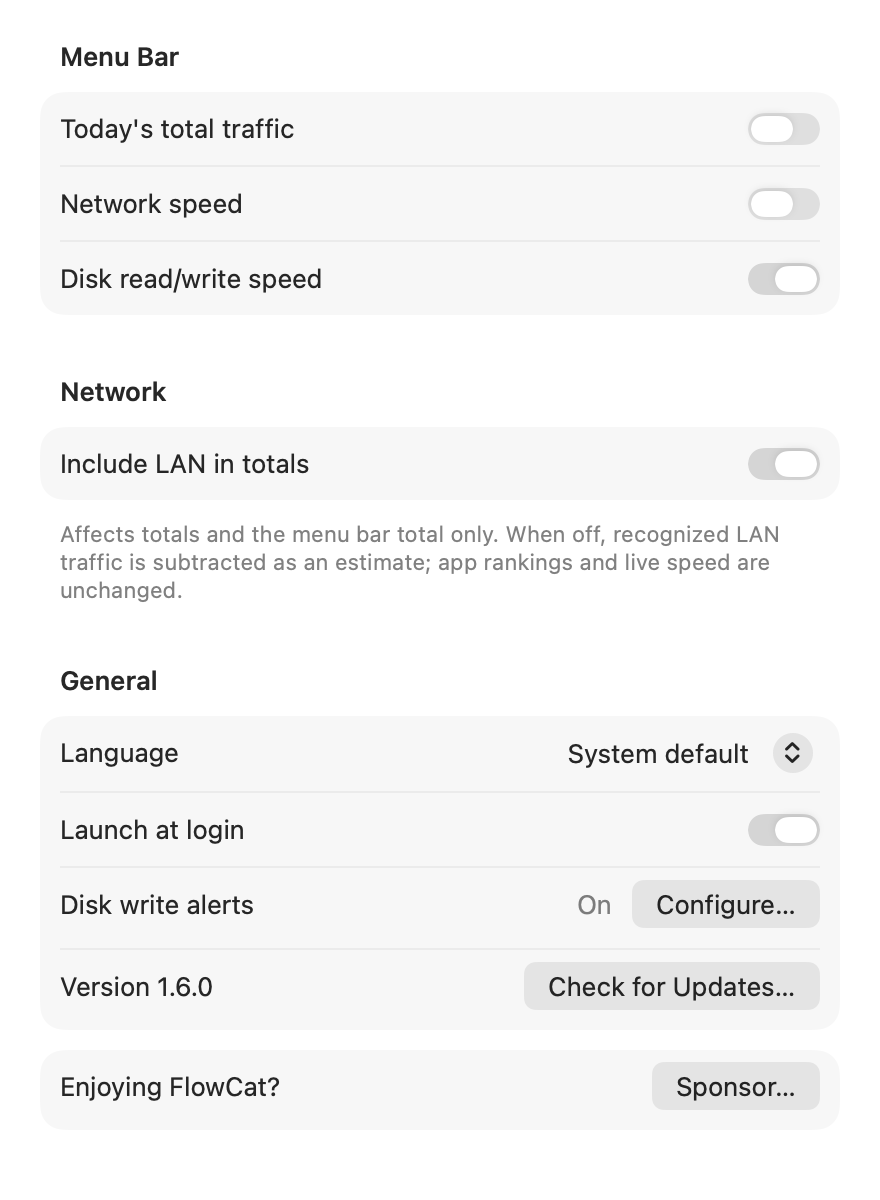
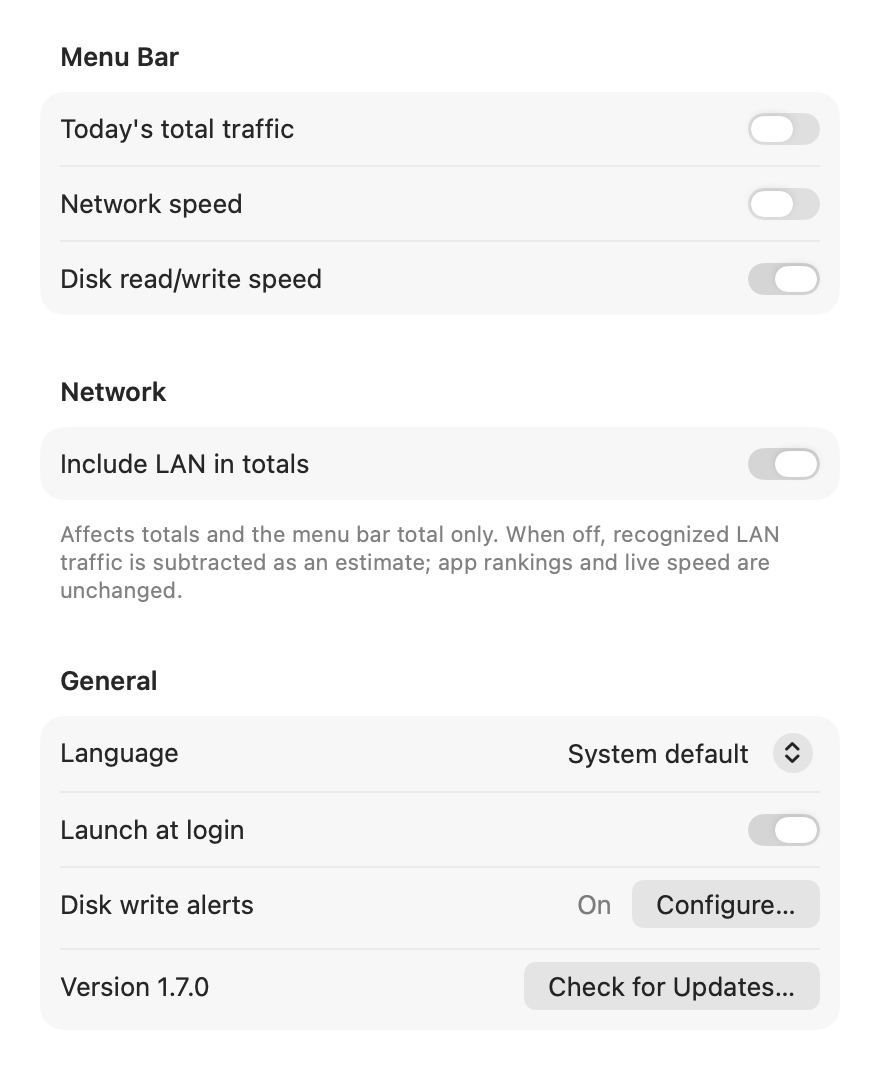
chore: remove sponsor entry from app, site and README

diff --git a/Sources/main.swift b/Sources/main.swift
@@ -119,7 +119,6 @@ final class AppDelegate: NSObject, NSApplicationDelegate, NSMenuDelegate, NSPopo
         _ = add(tr("Disk Write Alerts…", "磁盘写入提醒…"), action: #selector(openDiskAlerts))
         menu.addItem(.separator())
         _ = add(tr("Settings…", "设置…"), action: #selector(openSettings))
-        _ = add(tr("Sponsor FlowCat…", "赞助流量喵…"), action: #selector(openSponsor))
         _ = add(tr("Check for Updates…", "检查更新…"), action: #selector(checkUpdates))
         menu.addItem(.separator())
         _ = add(tr("Quit FlowCat", "退出流量喵"), action: #selector(quit))
@@ -180,7 +179,6 @@ final class AppDelegate: NSObject, NSApplicationDelegate, NSMenuDelegate, NSPopo
     @objc private func toggleMenuBarTotal() { monitor.showMenuBarTotal.toggle() }
     @objc private func toggleMenuBarSpeed() { monitor.showMenuBarSpeed.toggle() }
     @objc private func toggleRecording() { monitor.togglePause() }
-    @objc private func openSponsor() { NSWorkspace.shared.open(Links.sponsor) }
     @objc private func toggleIncludeLAN() { monitor.includeLAN.toggle() }
     @objc private func openSettings() { popover.performClose(nil); SettingsWindow.shared.show(monitor) }
     @objc private func exportNetworkCSV() { NSApp.activate(ignoringOtherApps: true); monitor.export() }
@@ -335,7 +333,7 @@ if let index = CommandLine.arguments.firstIndex(of: "--render-preview"), Command
     if CommandLine.arguments.contains("--dark") { app.appearance = NSAppearance(named: .darkAqua) }
     let alertPreview = CommandLine.arguments.contains("--alerts")
     let settingsPreview = CommandLine.arguments.contains("--settings")
-    let size = settingsPreview ? CGSize(width: 440, height: 490) : alertPreview ? CGSize(width: CommandLine.arguments.contains("--narrow") ? 510 : 620, height: 900) : CGSize(width: CommandLine.arguments.contains("--narrow") ? 342 : 460, height: CommandLine.arguments.contains("--short") ? 452 : 640)
+    let size = settingsPreview ? CGSize(width: 440, height: 540) : alertPreview ? CGSize(width: CommandLine.arguments.contains("--narrow") ? 510 : 620, height: 900) : CGSize(width: CommandLine.arguments.contains("--narrow") ? 342 : 460, height: CommandLine.arguments.contains("--short") ? 452 : 640)
     var alertModel = preview.disk.alerts
     if alertPreview {
         let suite = "flowcat-alert-preview-" + UUID().uuidString

diff --git a/Sources/SettingsWindow.swift b/Sources/SettingsWindow.swift
@@ -8,12 +8,12 @@ final class SettingsWindow: NSObject, NSWindowDelegate {
     func show(_ monitor: TrafficMonitor) {
         monitor.refreshLoginStatus()
         if let window { window.makeKeyAndOrderFront(nil); NSApp.activate(ignoringOtherApps: true); return }
-        let window = NSWindow(contentRect: NSRect(x: 0, y: 0, width: 440, height: 600),
+        let window = NSWindow(contentRect: NSRect(x: 0, y: 0, width: 440, height: 540),
                               styleMask: [.titled, .closable], backing: .buffered, defer: false)
         window.title = tr("FlowCat Settings", "流量喵设置"); window.isReleasedWhenClosed = false; window.delegate = self
         // Assigning a controller resizes the window to its view; restore the fixed form size afterwards.
         window.contentViewController = NSHostingController(rootView: SettingsView(monitor: monitor, disk: monitor.disk, alerts: monitor.disk.alerts))
-        window.setContentSize(NSSize(width: 440, height: 600))
+        window.setContentSize(NSSize(width: 440, height: 540))
         self.window = window; window.center(); window.makeKeyAndOrderFront(nil); NSApp.activate(ignoringOtherApps: true)
     }
     func windowWillClose(_ notification: Notification) { window = nil }
@@ -60,11 +60,6 @@ struct SettingsView: View {
                     Button(tr("Check for Updates…", "检查更新…")) { UpdateChecker.shared.check() }
                 }
             } header: { Text(tr("General", "通用")) }
-            Section {
-                LabeledContent(tr("Enjoying FlowCat?", "喜欢流量喵？")) {
-                    Button(tr("Sponsor…", "赞助…")) { NSWorkspace.shared.open(Links.sponsor) }
-                }
-            }
-        }.formStyle(.grouped).frame(width: 440, height: 600).environment(\.locale, appLocale)
+        }.formStyle(.grouped).frame(width: 440, height: 540).environment(\.locale, appLocale)
     }
 }

diff --git a/docs/site.css b/docs/site.css
@@ -133,9 +133,6 @@ summary::after { content: "+"; color: var(--muted); font-weight: 400; font-size:
 details[open] summary::after { content: "\2212"; }
 details p { color: var(--muted); margin: 12px 0 0; }
 
-/* Sponsor */
-.sponsor .box { background: var(--surface); border: 1px solid var(--line); border-radius: var(--radius); padding: 40px; display: grid; grid-template-columns: minmax(0, 1fr) auto; gap: 32px; align-items: center; }
-.sponsor p { color: var(--muted); margin: 0; }
 
 footer { border-top: 1px solid var(--line); padding: 32px 0 48px; color: var(--muted); font-size: 14px; }
 footer .wrap { display: flex; flex-wrap: wrap; gap: 12px 28px; align-items: center; }
@@ -159,7 +156,6 @@ footer .brand { color: var(--ink); margin-right: auto; }
   .cell.wide, .cell.narrow, .cell.third { grid-column: span 2; }
   .split { grid-template-columns: 1fr; gap: 36px; }
   .install ol { grid-template-columns: 1fr; }
-  .sponsor .box { grid-template-columns: 1fr; padding: 28px; }
   section { padding: 64px 0; }
 }
 @media (max-width: 640px) {

diff --git a/docs/index.html b/docs/index.html
@@ -25,7 +25,6 @@
     <nav class="nav" aria-label="Main">
       <a href="#features">Features</a>
       <a href="#install">Install</a>
-      <a href="#sponsor">Sponsor</a>
       <a href="https://github.com/tab16360/flowcat">GitHub</a>
       <a class="lang" href="zh/" hreflang="zh-Hans" lang="zh-Hans">中文</a>
     </nav>
@@ -156,17 +155,6 @@
     </div>
   </section>
 
-  <section id="sponsor" class="sponsor">
-    <div class="wrap reveal">
-      <div class="box">
-        <div>
-          <h2>Keep FlowCat free.</h2>
-          <p>FlowCat is free, open source and built in spare time. If it helped you catch a runaway process, a sponsorship keeps updates coming.</p>
-        </div>
-        <a class="button" href="https://github.com/sponsors/tab16360">Sponsor on GitHub</a>
-      </div>
-    </div>
-  </section>
 </main>
 
 <footer>

diff --git a/docs/zh/index.html b/docs/zh/index.html
@@ -25,7 +25,6 @@
     <nav class="nav" aria-label="主导航">
       <a href="#features">功能</a>
       <a href="#install">安装</a>
-      <a href="#sponsor">赞助</a>
       <a href="https://github.com/tab16360/flowcat">GitHub</a>
       <a class="lang" href="../" hreflang="en" lang="en">English</a>
     </nav>
@@ -156,17 +155,6 @@
     </div>
   </section>
 
-  <section id="sponsor" class="sponsor">
-    <div class="wrap reveal">
-      <div class="box">
-        <div>
-          <h2>让流量喵保持免费。</h2>
-          <p>流量喵免费、开源，利用业余时间开发。如果它帮你揪出过失控的进程，欢迎赞助支持后续更新。</p>
-        </div>
-        <a class="button" href="https://github.com/sponsors/tab16360">在 GitHub 赞助</a>
-      </div>
-    </div>
-  </section>
 </main>
 
 <footer>

diff --git a/Sources/Core.swift b/Sources/Core.swift
@@ -25,11 +25,6 @@ final class Localization: ObservableObject {
         }
     }
 }
-enum Links {
-    static let repository = URL(string: "https://github.com/tab16360/flowcat")!
-    // One place to change the sponsor destination for the app, site and README.
-    static let sponsor = URL(string: "https://github.com/sponsors/tab16360")!
-}
 // Dates follow the app language rather than the system region.
 var appLocale: Locale { Locale(identifier: Localization.shared.isChinese ? "zh_Hans_CN" : "en_US") }
 func appDate(_ date: Date, date dateStyle: Date.FormatStyle.DateStyle, time: Date.FormatStyle.TimeStyle) -> String {

diff --git a/Sources/LedgerView.swift b/Sources/LedgerView.swift
@@ -141,7 +141,6 @@ struct LedgerView: View {
                 Divider()
                 Button(tr("Settings…", "设置…")) { SettingsWindow.shared.show(monitor); close() }.keyboardShortcut(",")
                 Button(tr("Check for Updates…", "检查更新…")) { UpdateChecker.shared.check() }
-                Button(tr("Sponsor FlowCat…", "赞助流量喵…")) { NSWorkspace.shared.open(Links.sponsor) }
                 Divider()
                 Button(tr("Quit FlowCat", "退出流量喵")) { monitor.save(); NSApp.terminate(nil) }.keyboardShortcut("q")
             } label: {

diff --git a/README.zh-CN.md b/README.zh-CN.md
@@ -6,7 +6,7 @@
 
 **下载包不足 1 MB · 无需账号 · 数据全在本地 · macOS 13+ · Apple Silicon · Apache-2.0**
 
-[下载最新版](https://github.com/tab16360/flowcat/releases/latest/download/FlowCat-arm64.zip) · [介绍站点](https://tab16360.github.io/flowcat/zh/) · [使用说明](docs/guide.zh-CN.md) · [更新记录](CHANGELOG.md) · [赞助](https://github.com/sponsors/tab16360) · [English](README.md)
+[下载最新版](https://github.com/tab16360/flowcat/releases/latest/download/FlowCat-arm64.zip) · [介绍站点](https://tab16360.github.io/flowcat/zh/) · [使用说明](docs/guide.zh-CN.md) · [更新记录](CHANGELOG.md) · [English](README.md)
 
 关注作者 [@ai_funs](https://x.com/ai_funs)，获取流量喵更新与 AI 工具实践。
 
@@ -128,9 +128,5 @@ CI 检查核心统计并生成安装包。`main` 上的站点更新由 GitHub Pa
 Windows 版已迁入独立仓库：[flowcat-windows](https://github.com/tab16360/flowcat-windows)。使用 C++20 / Win32 / Direct2D，后台采集服务与普通权限托盘界面分离，提供独立安装器、Wi-Fi 筛选、设置与更新渠道。
 
 [Windows 介绍与下载](https://tab16360.github.io/flowcat/windows/)。本仓库继续维护 macOS 版。
-
-## 赞助
-
-流量喵免费开源，利用业余时间开发。如果它帮你揪出过失控的进程，欢迎在 [GitHub 赞助](https://github.com/sponsors/tab16360)。
 
 采用 [Apache License 2.0](LICENSE) 许可证。

diff --git a/README.md b/README.md
@@ -6,7 +6,7 @@ A native macOS menu bar app for **live network speed**, **per-process disk reads
 
 **Under 1 MB · No account · Data stays on your Mac · macOS 13+ · Apple Silicon · Apache-2.0**
 
-[Download](https://github.com/tab16360/flowcat/releases/latest/download/FlowCat-arm64.zip) · [Website](https://tab16360.github.io/flowcat/) · [User guide](docs/guide.md) · [Changelog](CHANGELOG.md) · [Sponsor](https://github.com/sponsors/tab16360) · [简体中文](README.zh-CN.md)
+[Download](https://github.com/tab16360/flowcat/releases/latest/download/FlowCat-arm64.zip) · [Website](https://tab16360.github.io/flowcat/) · [User guide](docs/guide.md) · [Changelog](CHANGELOG.md) · [简体中文](README.zh-CN.md)
 
 ![FlowCat in the menu bar with the network and disk activity panels](docs/assets/screens/hero-en.jpg)
 
@@ -93,8 +93,6 @@ CI runs the checks and builds the package. Pushes to `main` that touch `docs/` p
 
 A separate Windows version (C++20 / Win32 / Direct2D) lives in [flowcat-windows](https://github.com/tab16360/flowcat-windows). This repository maintains the macOS app.
 
-## Sponsor
-
-FlowCat is free and built in spare time. If it helped you catch a runaway process, consider [sponsoring on GitHub](https://github.com/sponsors/tab16360). Follow [@ai_funs](https://x.com/ai_funs) for updates.
+Follow [@ai_funs](https://x.com/ai_funs) for updates.
 
 Released under the [Apache License 2.0](LICENSE).

diff --git a/docs/guide.md b/docs/guide.md
@@ -31,7 +31,6 @@ Open Settings with ⌘, or from the More menu.
 - **Menu Bar:** show today's total, network speed and disk read/write speed independently. Changes apply immediately. By default only the icon and network speed are shown.
 - **Network:** Include LAN in totals (see below).
 - **General:** Language (System default, English or 简体中文), Launch at login, Disk write alerts, version and Check for Updates.
-- **Sponsor:** opens the GitHub Sponsors page.
 
 ## Menu bar readout
 

diff --git a/CHANGELOG.md b/CHANGELOG.md
@@ -1,5 +1,13 @@
 # 更新记录
 
+## Unreleased
+
+Removed the sponsor entry from the app menus, Settings, website and README.
+
+## 未发布（中文）
+
+移除应用菜单、设置、官网和 README 中的赞助入口。
+
 ## 1.7.0
 
 FlowCat is now licensed under the Apache License 2.0 (previously MIT).
